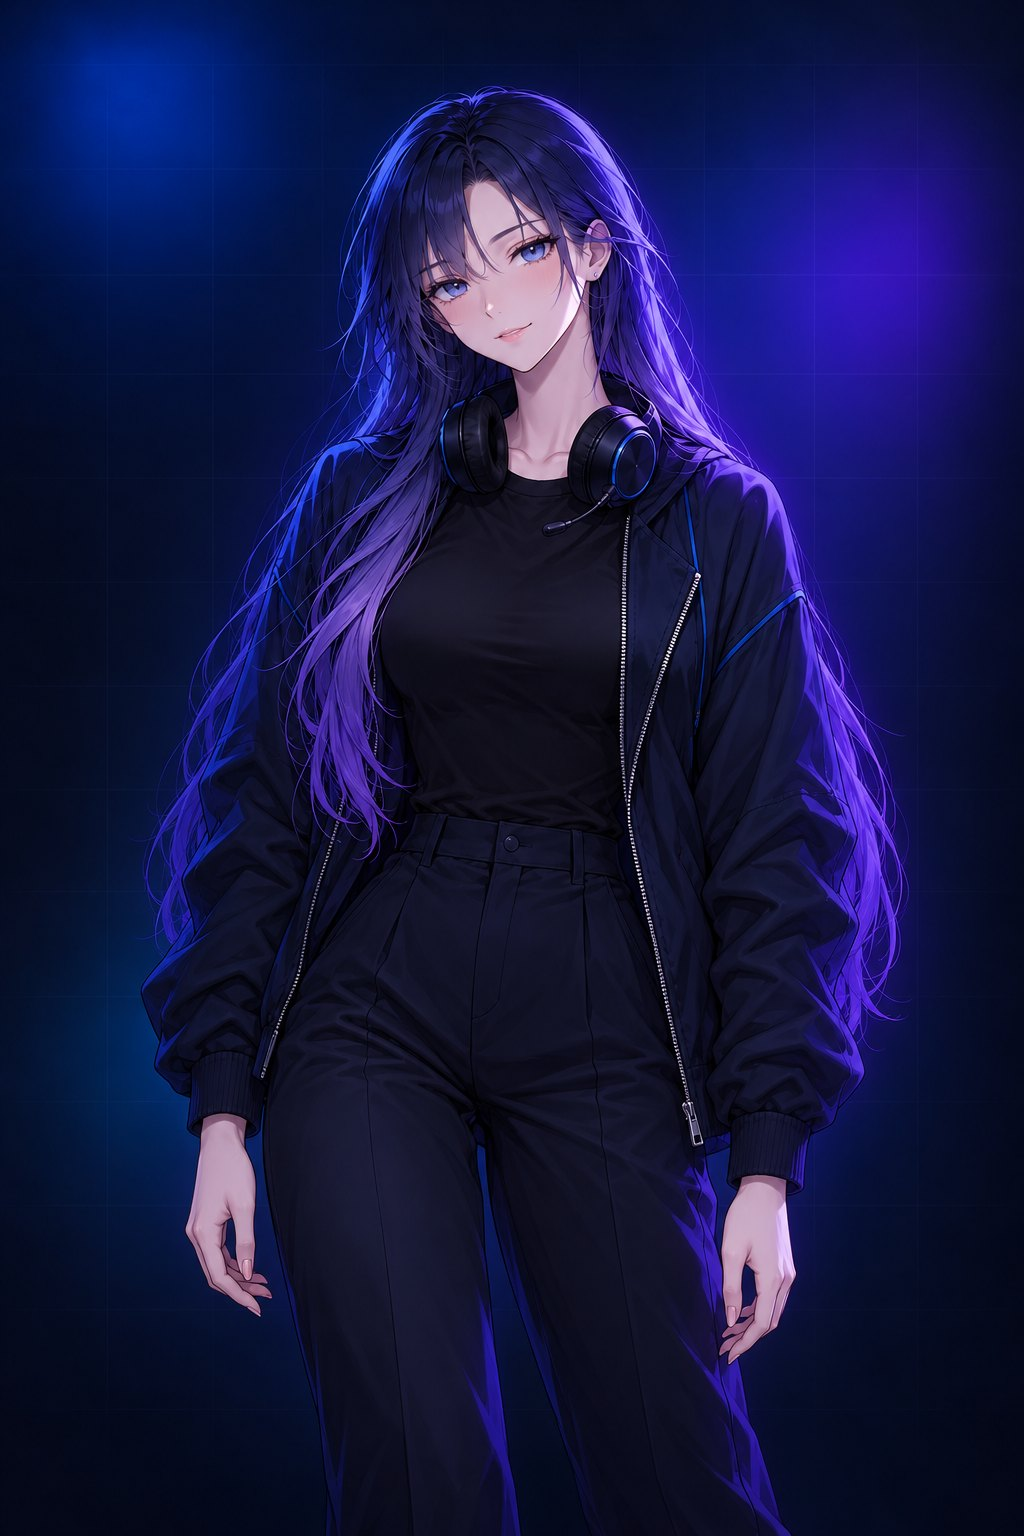
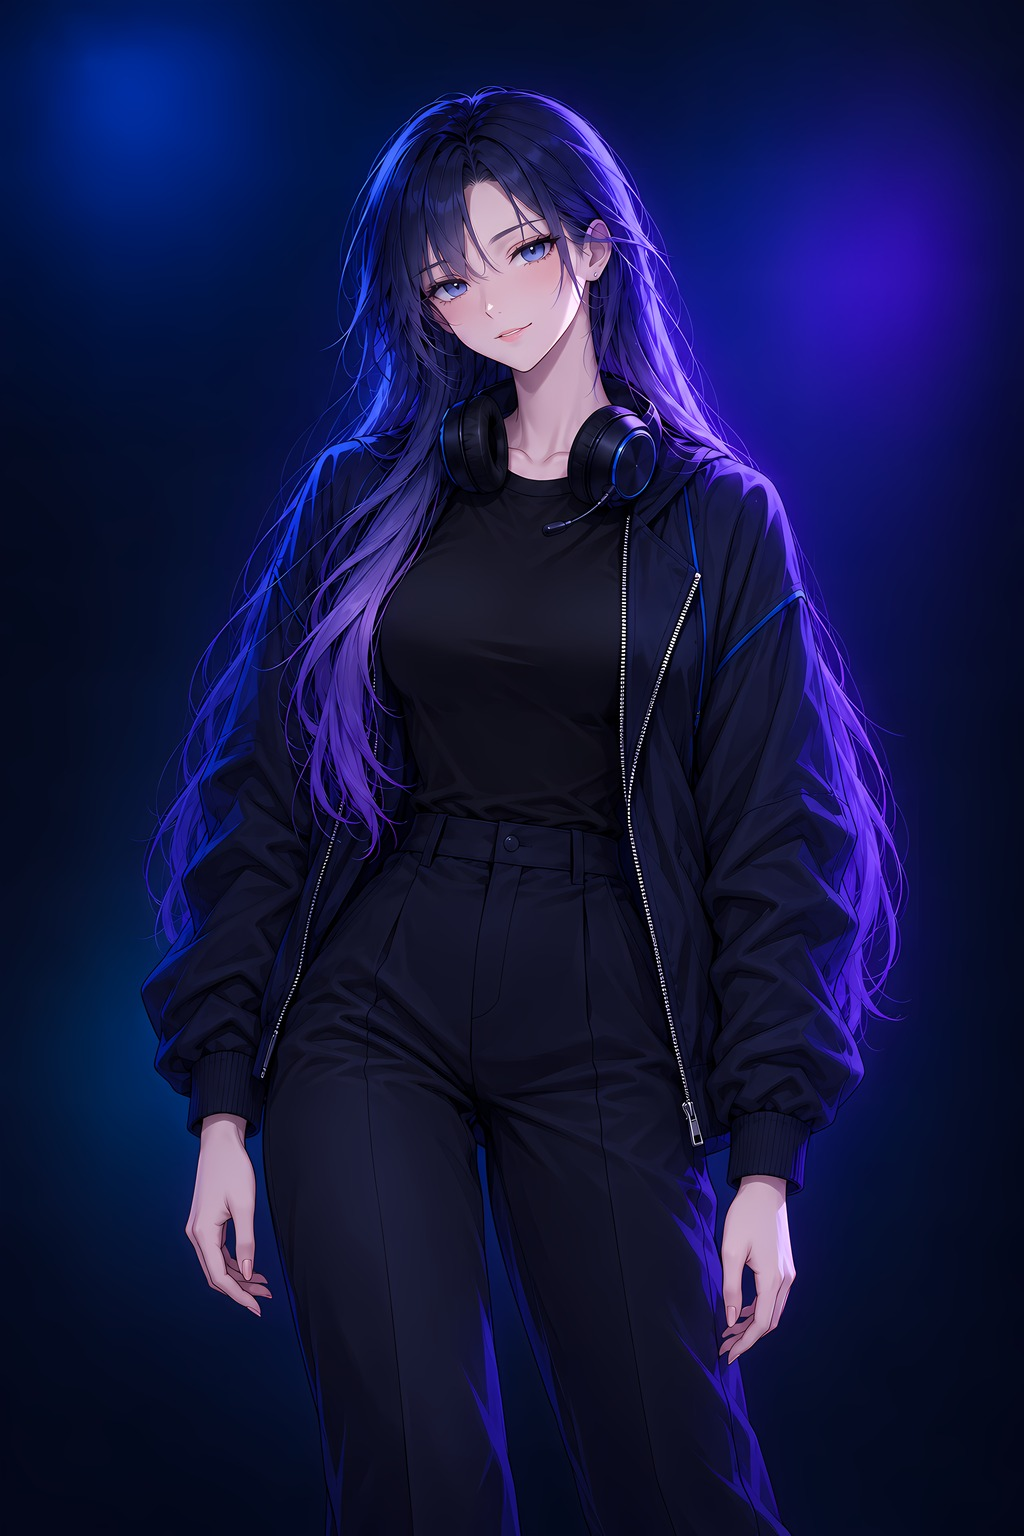
ヒーロー画像を Real-ESRGAN で高解像度化し、Retina 向けに 2 倍版を srcset で配信

diff --git a/index.html b/index.html
@@ -1,5 +1,5 @@
-<!doctype html><html lang="ja"><head><meta charset="utf-8"><meta name="viewport" content="width=device-width, initial-scale=1"><meta name="robots" content="noindex,nofollow"><title>ETHICA VTuber Studio｜所属しなくても使える、VTuberの支援会社</title><meta name="description" content="ETHICA VTuber Studio は、所属契約なしで使えるVTuberの支援会社です。案件の交渉、動画や配信画面の制作、税金や契約の相談など、配信以外の仕事を引き受けます。相談は無料です。"><meta name="theme-color" content="#080e20"><link rel="icon" href="assets/favicon.svg" type="image/svg+xml"><link rel="preconnect" href="https://fonts.googleapis.com"><link rel="preconnect" href="https://fonts.gstatic.com" crossorigin><link href="https://fonts.googleapis.com/css2?family=Montserrat:wght@400;500;600;700&family=Noto+Sans+JP:wght@400;500;600;700&family=Shippori+Mincho:wght@400;500&display=swap" rel="stylesheet"><link rel="stylesheet" href="assets/style.css"><script src="assets/main.js" defer></script></head><body class="home"><a class="skip-link" href="#main">本文へ移動</a><header class="site-header"><a class="brand" href="index.html" aria-label="ETHICA VTuber Studio トップ"><span class="wordmark">ETHICA<span>VTUBER STUDIO</span></span></a><button class="menu-toggle" type="button" aria-expanded="false" aria-controls="main-nav" aria-label="メニューを開く"><span></span><span></span></button><nav id="main-nav" class="main-nav" aria-label="メインナビゲーション"><a href="index.html#service">Service</a><a href="index.html#message">Message</a><a href="index.html#company">Company</a><a href="index.html#access">Access</a><a class="nav-contact" href="index.html#contact">ご相談はこちら <span aria-hidden="true">↗</span></a></nav></header><main id="main"><section class="hero" aria-labelledby="hero-title"><picture class="hero-picture"><source media="(max-width: 760px)" type="image/webp" srcset="assets/img/hero_portrait.webp"><source media="(max-width: 760px)" srcset="assets/img/hero_portrait.jpg"><source type="image/webp" srcset="assets/img/hero_wide.webp"><img class="hero-image" src="assets/img/hero_wide.jpg" alt="青と紫の光に包まれた、ヘッドセットを首にかけたオリジナル VTuber キャラクター" width="1536" height="864" fetchpriority="high"></picture><div class="hero-shade"></div><div class="container hero-content"><p class="hero-label">ETHICA VTUBER STUDIO</p><h1 id="hero-title" class="serif"><span>VTuberの活動を、</span><span>裏方として<br class="sp">支えます。</span></h1><p class="hero-sub">所属契約なしで使える、VTuberの支援会社です。</p><p class="hero-detail">案件の交渉、動画や配信画面の制作、<br class="sp">税金や契約の相談など、<br>配信以外の仕事を代わりに引き受けます。<br class="sp">必要なものだけ選んで依頼できます。</p><a href="#service" class="button button-glass">私たちの事業を見る <span aria-hidden="true">↗</span></a></div><div class="hero-bottom container"><a href="#service" class="scroll-cue">SCROLL<span></span></a><p>相談は無料です。<br>契約を前提にしていません。</p></div></section>
-<section id="service" class="section service-section"><div class="container"><div class="section-intro reveal"><div class="section-heading"><p class="eyebrow">事業内容</p><h2>Service</h2></div><div><h3>配信以外の仕事を、<br class="sp">まとめて引き受けます。</h3><p>配信者の方には、活動の裏方を引き受けます。<br>企業の方には、VTuber企画の窓口になります。</p><p>事業は次の4つです。</p></div></div><div class="business-grid"><article class="business-card reveal"><div class="art art-entertainment photo-art" aria-hidden="true"><img src="assets/img/hero_wide.jpg" alt="" loading="lazy" width="1536" height="864"><span class="art-word">所属契約は<br>いりません。</span><span class="art-caption">ENTERTAINMENT / ETHICA</span></div><div class="card-copy"><p class="card-kicker"><span>01</span>ENTERTAINMENT</p><h3>エンターテインメント事業</h3><p>活動のサポート、イベント、自社番組の企画をおこないます。</p><ul class="tags"><li>活動サポート</li><li>イベント</li><li>自社 IP 番組</li></ul><a class="text-link" href="entertainment.html">事業の詳細を見る <span aria-hidden="true">↗</span></a></div></article><article class="business-card reveal"><div class="art art-marketing" aria-hidden="true"><div class="art-orbit"></div><svg viewBox="0 0 320 288" fill="none" stroke="currentColor" stroke-width="1.4" stroke-linecap="round" stroke-linejoin="round" aria-hidden="true"><circle cx="160" cy="144" r="125" stroke-opacity=".15"/><circle cx="103" cy="148" r="49"/><circle cx="217" cy="148" r="49"/><path d="M133 148h54m-16-16 16 16-16 16M118 74a91 91 0 0 1 84 0M118 222a91 91 0 0 0 84 0"/></svg><span class="art-caption">MARKETING / ETHICA</span></div><div class="card-copy"><p class="card-kicker"><span>02</span>MARKETING</p><h3>マーケティング事業</h3><p>企業とVTuberのタイアップ企画を、窓口として進めます。</p><ul class="tags"><li>タイアップ</li><li>SNS</li><li>グッズ・D2C</li></ul><a class="text-link" href="marketing.html">事業の詳細を見る <span aria-hidden="true">↗</span></a></div></article><article class="business-card reveal"><div class="art art-creative" aria-hidden="true"><div class="art-orbit"></div><svg viewBox="0 0 320 288" fill="none" stroke="currentColor" stroke-width="1.4" stroke-linecap="round" stroke-linejoin="round" aria-hidden="true"><circle cx="160" cy="144" r="125" stroke-opacity=".15"/><path d="m95 206 19-65L218 37l46 46-104 104-65 19zm19-65 46 46m-60 4 10 10M197 58l46 46M75 239h176"/><circle cx="76" cy="76" r="8"/><path d="M65 115H45m10-10v20"/></svg><span class="art-caption">CREATIVE / ETHICA</span></div><div class="card-copy"><p class="card-kicker"><span>03</span>CREATIVE</p><h3>クリエイティブ事業</h3><p>キャラクター、配信画面、動画などの制作を引き受けます。</p><ul class="tags"><li>キャラクター</li><li>映像</li><li>デザイン</li></ul><a class="text-link" href="creative.html">事業の詳細を見る <span aria-hidden="true">↗</span></a></div></article><article class="business-card reveal"><div class="art art-support" aria-hidden="true"><div class="art-orbit"></div><svg viewBox="0 0 320 288" fill="none" stroke="currentColor" stroke-width="1.4" stroke-linecap="round" stroke-linejoin="round" aria-hidden="true"><circle cx="160" cy="144" r="125" stroke-opacity=".15"/><path d="M103 55h88l35 35v145H103zM191 55v35h35M125 119h78m-78 27h78m-78 27h48m1 33 15 15 36-36"/></svg><span class="art-caption">CREATOR SUPPORT / ETHICA</span></div><div class="card-copy"><p class="card-kicker"><span>04</span>CREATOR SUPPORT</p><h3>クリエイターサポート事業</h3><p>税金や契約など、配信以外で困ることを相談できます。</p><ul class="tags"><li>税務・法務</li><li>資金計画</li><li>条件の開示</li></ul><a class="text-link" href="support.html">事業の詳細を見る <span aria-hidden="true">↗</span></a></div></article></div><div class="service-promise reveal"><span>所属不要・非専属</span><p>契約は項目ごとです。<br class="sp">あとから増やすことも、やめることもできます。</p><a href="support.html#terms">料金・条件について <span aria-hidden="true">↗</span></a></div></div></section>
+<!doctype html><html lang="ja"><head><meta charset="utf-8"><meta name="viewport" content="width=device-width, initial-scale=1"><meta name="robots" content="noindex,nofollow"><title>ETHICA VTuber Studio｜所属しなくても使える、VTuberの支援会社</title><meta name="description" content="ETHICA VTuber Studio は、所属契約なしで使えるVTuberの支援会社です。案件の交渉、動画や配信画面の制作、税金や契約の相談など、配信以外の仕事を引き受けます。相談は無料です。"><meta name="theme-color" content="#080e20"><link rel="icon" href="assets/favicon.svg" type="image/svg+xml"><link rel="preconnect" href="https://fonts.googleapis.com"><link rel="preconnect" href="https://fonts.gstatic.com" crossorigin><link href="https://fonts.googleapis.com/css2?family=Montserrat:wght@400;500;600;700&family=Noto+Sans+JP:wght@400;500;600;700&family=Shippori+Mincho:wght@400;500&display=swap" rel="stylesheet"><link rel="stylesheet" href="assets/style.css"><script src="assets/main.js" defer></script></head><body class="home"><a class="skip-link" href="#main">本文へ移動</a><header class="site-header"><a class="brand" href="index.html" aria-label="ETHICA VTuber Studio トップ"><span class="wordmark">ETHICA<span>VTUBER STUDIO</span></span></a><button class="menu-toggle" type="button" aria-expanded="false" aria-controls="main-nav" aria-label="メニューを開く"><span></span><span></span></button><nav id="main-nav" class="main-nav" aria-label="メインナビゲーション"><a href="index.html#service">Service</a><a href="index.html#message">Message</a><a href="index.html#company">Company</a><a href="index.html#access">Access</a><a class="nav-contact" href="index.html#contact">ご相談はこちら <span aria-hidden="true">↗</span></a></nav></header><main id="main"><section class="hero" aria-labelledby="hero-title"><picture class="hero-picture"><source media="(max-width: 760px)" type="image/webp" srcset="assets/img/hero_portrait.webp 1x, assets/img/hero_portrait@2x.webp 2x"><source media="(max-width: 760px)" srcset="assets/img/hero_portrait.jpg 1x, assets/img/hero_portrait@2x.jpg 2x"><source type="image/webp" srcset="assets/img/hero_wide.webp 1x, assets/img/hero_wide@2x.webp 2x"><img class="hero-image" src="assets/img/hero_wide.jpg" srcset="assets/img/hero_wide.jpg 1x, assets/img/hero_wide@2x.jpg 2x" alt="青と紫の光に包まれた、ヘッドセットを首にかけたオリジナル VTuber キャラクター" width="1536" height="864" fetchpriority="high"></picture><div class="hero-shade"></div><div class="container hero-content"><p class="hero-label">ETHICA VTUBER STUDIO</p><h1 id="hero-title" class="serif"><span>VTuberの活動を、</span><span>裏方として<br class="sp">支えます。</span></h1><p class="hero-sub">所属契約なしで使える、VTuberの支援会社です。</p><p class="hero-detail">案件の交渉、動画や配信画面の制作、<br class="sp">税金や契約の相談など、<br>配信以外の仕事を代わりに引き受けます。<br class="sp">必要なものだけ選んで依頼できます。</p><a href="#service" class="button button-glass">私たちの事業を見る <span aria-hidden="true">↗</span></a></div><div class="hero-bottom container"><a href="#service" class="scroll-cue">SCROLL<span></span></a><p>相談は無料です。<br>契約を前提にしていません。</p></div></section>
+<section id="service" class="section service-section"><div class="container"><div class="section-intro reveal"><div class="section-heading"><p class="eyebrow">事業内容</p><h2>Service</h2></div><div><h3>配信以外の仕事を、<br class="sp">まとめて引き受けます。</h3><p>配信者の方には、活動の裏方を引き受けます。<br>企業の方には、VTuber企画の窓口になります。</p><p>事業は次の4つです。</p></div></div><div class="business-grid"><article class="business-card reveal"><div class="art art-entertainment photo-art" aria-hidden="true"><img src="assets/img/hero_wide.jpg" srcset="assets/img/hero_wide.webp 1x, assets/img/hero_wide@2x.webp 2x" alt="" loading="lazy" width="1536" height="864"><span class="art-word">所属契約は<br>いりません。</span><span class="art-caption">ENTERTAINMENT / ETHICA</span></div><div class="card-copy"><p class="card-kicker"><span>01</span>ENTERTAINMENT</p><h3>エンターテインメント事業</h3><p>活動のサポート、イベント、自社番組の企画をおこないます。</p><ul class="tags"><li>活動サポート</li><li>イベント</li><li>自社 IP 番組</li></ul><a class="text-link" href="entertainment.html">事業の詳細を見る <span aria-hidden="true">↗</span></a></div></article><article class="business-card reveal"><div class="art art-marketing" aria-hidden="true"><div class="art-orbit"></div><svg viewBox="0 0 320 288" fill="none" stroke="currentColor" stroke-width="1.4" stroke-linecap="round" stroke-linejoin="round" aria-hidden="true"><circle cx="160" cy="144" r="125" stroke-opacity=".15"/><circle cx="103" cy="148" r="49"/><circle cx="217" cy="148" r="49"/><path d="M133 148h54m-16-16 16 16-16 16M118 74a91 91 0 0 1 84 0M118 222a91 91 0 0 0 84 0"/></svg><span class="art-caption">MARKETING / ETHICA</span></div><div class="card-copy"><p class="card-kicker"><span>02</span>MARKETING</p><h3>マーケティング事業</h3><p>企業とVTuberのタイアップ企画を、窓口として進めます。</p><ul class="tags"><li>タイアップ</li><li>SNS</li><li>グッズ・D2C</li></ul><a class="text-link" href="marketing.html">事業の詳細を見る <span aria-hidden="true">↗</span></a></div></article><article class="business-card reveal"><div class="art art-creative" aria-hidden="true"><div class="art-orbit"></div><svg viewBox="0 0 320 288" fill="none" stroke="currentColor" stroke-width="1.4" stroke-linecap="round" stroke-linejoin="round" aria-hidden="true"><circle cx="160" cy="144" r="125" stroke-opacity=".15"/><path d="m95 206 19-65L218 37l46 46-104 104-65 19zm19-65 46 46m-60 4 10 10M197 58l46 46M75 239h176"/><circle cx="76" cy="76" r="8"/><path d="M65 115H45m10-10v20"/></svg><span class="art-caption">CREATIVE / ETHICA</span></div><div class="card-copy"><p class="card-kicker"><span>03</span>CREATIVE</p><h3>クリエイティブ事業</h3><p>キャラクター、配信画面、動画などの制作を引き受けます。</p><ul class="tags"><li>キャラクター</li><li>映像</li><li>デザイン</li></ul><a class="text-link" href="creative.html">事業の詳細を見る <span aria-hidden="true">↗</span></a></div></article><article class="business-card reveal"><div class="art art-support" aria-hidden="true"><div class="art-orbit"></div><svg viewBox="0 0 320 288" fill="none" stroke="currentColor" stroke-width="1.4" stroke-linecap="round" stroke-linejoin="round" aria-hidden="true"><circle cx="160" cy="144" r="125" stroke-opacity=".15"/><path d="M103 55h88l35 35v145H103zM191 55v35h35M125 119h78m-78 27h78m-78 27h48m1 33 15 15 36-36"/></svg><span class="art-caption">CREATOR SUPPORT / ETHICA</span></div><div class="card-copy"><p class="card-kicker"><span>04</span>CREATOR SUPPORT</p><h3>クリエイターサポート事業</h3><p>税金や契約など、配信以外で困ることを相談できます。</p><ul class="tags"><li>税務・法務</li><li>資金計画</li><li>条件の開示</li></ul><a class="text-link" href="support.html">事業の詳細を見る <span aria-hidden="true">↗</span></a></div></article></div><div class="service-promise reveal"><span>所属不要・非専属</span><p>契約は項目ごとです。<br class="sp">あとから増やすことも、やめることもできます。</p><a href="support.html#terms">料金・条件について <span aria-hidden="true">↗</span></a></div></div></section>
 <section id="message" class="section message"><div class="container"><div class="message-intro reveal"><div class="section-heading"><p class="eyebrow">私たちについて</p><h2>Message</h2></div><div><h3 class="serif">事務所に入るか、<br>ひとりでやるか。<br>その間の選択肢を<br>つくります。</h3><p>ETHICA VTuber Studio は、<br class="sp">タレントを所属させない支援会社です。</p><p>配信以外の仕事を引き受けて、<br class="sp">配信者が配信に集中できるようにします。</p><p>契約の条件は、先に書面でお渡しします。<br class="sp">契約が終わったあとの活動を縛ることもしません。</p></div></div><div class="values"><article class="reveal"><p class="value-label">Mission</p><h3>VTuberのやりたいことを、<br>実現しやすくする</h3><p>配信以外の仕事を引き受けて、<br class="sp">配信に集中できる環境をつくります。</p></article><article class="reveal"><p class="value-label">Vision</p><h3>所属しなくても<br>活動を続けられる業界にする</h3><p>事務所に入るか、ひとりで抱えるか。<br class="sp">その二択に、もうひとつの選択肢を加えます。</p></article><article class="reveal"><p class="value-label">Value</p><h3>条件は<br>契約の前にすべて出す</h3><p>費用、権利の扱い、やめるときの条件を、<br class="sp">契約前に書面でお渡しします。<br>持ち帰って検討してください。</p></article></div><a class="text-link light-link" href="support.html#terms">契約前に確認できる条件を見る <span aria-hidden="true">↗</span></a></div></section>
 <section id="company" class="section company"><div class="container split-section reveal"><div class="section-heading"><p class="eyebrow">会社概要</p><h2>Company</h2></div><dl class="data-list"><div><dt>会社名</dt><dd>株式会社Ethica</dd></div><div><dt>事業名</dt><dd>ETHICA VTuber Studio</dd></div><div><dt>設立</dt><dd>確定後に掲載します</dd></div><div><dt>代表者</dt><dd>確定後に掲載します</dd></div><div><dt>事業内容</dt><dd>VTuberの活動支援、イベントの企画運営、自社番組の制作<br>VTuberを起用したマーケティング支援、グッズの企画<br>キャラクター、映像、デザインの制作<br>税務、法務、契約に関するクリエイター支援</dd></div></dl></div></section>
 <section id="access" class="section access"><div class="container split-section reveal"><div class="section-heading"><p class="eyebrow">アクセス</p><h2>Access</h2></div><div class="access-content"><p class="eyebrow">オンライン対応</p><h3 class="serif">ご相談はオンラインで<br>受けています。</h3><p>ビデオ通話、X のDM、メールの<br class="sp">どれでも構いません。<br>初回は、配信の合間の30分程度でも大丈夫です。</p><p>全国どこからでもご相談いただけます。</p><p class="location-note">所在地は確定後に掲載します。</p><a class="text-link" href="index.html#contact">ご相談はこちら <span aria-hidden="true">↗</span></a></div></div></section><section id="contact" class="contact section"><div class="container contact-inner"><div class="section-heading"><p class="eyebrow">お問い合わせ</p><h2>Contact</h2></div><h3 class="serif">まずは現状を<br class="sp">聞かせてください。</h3><p class="contact-copy">配信者の方の活動相談、<br class="sp">企業・広告主の方の企画相談、<br class="sp">取材のご依頼を受け付けています。<br>ご相談は、ビデオ通話、X のDM、<br class="sp">メールで対応します。</p><p class="contact-promise">相談は無料です。<br class="sp">相談したからといって契約する必要はありません。</p><div class="contact-status"><span class="status-dot" aria-hidden="true"></span>相談窓口は準備中です</div><p class="contact-note">お問い合わせ先（メールアドレス・X アカウント）は<br class="sp">確定後に掲載します</p></div></section></main><footer class="site-footer"><div class="container"><div class="footer-top"><a class="brand" href="index.html" aria-label="ETHICA VTuber Studio トップ"><span class="wordmark">ETHICA<span>VTUBER STUDIO</span></span></a><nav aria-label="フッターナビゲーション"><a href="index.html">Top</a><a href="index.html#service">Service</a><a href="index.html#message">Message</a><a href="index.html#company">Company</a><a href="index.html#access">Access</a><a href="index.html#contact">Contact</a></nav></div><div class="footer-bottom"><small>© ETHICA VTuber Studio / 株式会社Ethica</small><a href="privacy.html">プライバシーポリシー <span aria-hidden="true">↗</span></a></div></div></footer></body></html>

diff --git a/README.md b/README.md
@@ -10,7 +10,7 @@
   - 03 CREATIVE（キャラクター制作／映像／デザイン／ブランディング・構成）
   - 04 CREATOR SUPPORT（税務／法務・契約／資金・機材の計画／条件の事前開示）← サムライの「ファイナンス事業」の VTuber 版
 - 支援項目・対象 A/B/C・料金条件の表は 2026-09-08 のデザイン提案（支援事務所版）と有識者ご意見用スライドに揃えている。文章は 2026-10-29 にオーナー指示で「AI っぽくない自然な日本語」に全面書き換え済み（キャッチ調・英語の飾り文句は使わない）
-- ヒーローのキャラクター画像は **GPT 画像生成（gpt-image-2）による仮ビジュアル**。原画 PNG と生成プロンプト、Midjourney 用プロンプトは `../site_assets_素材/`。Midjourney で作り直したら `assets/img/hero_wide.{jpg,webp}`（16:9）と `hero_portrait.{jpg,webp}`（2:3）を同名で上書きすれば HTML の変更は不要
+- ヒーローのキャラクター画像は **GPT 画像生成（gpt-image-2）による仮ビジュアル**。原画 PNG と生成プロンプト、Midjourney 用プロンプトは `../site_assets_素材/`。画像は Real-ESRGAN（アニメ用 6B・`../site_assets_素材/upscale.py`、ComfyUI の venv で実行）で 4 倍に拡大してから 2 倍解像度版（`@2x`）と等倍版を書き出し、`srcset` で Retina 画面に 2 倍版を配信している。Midjourney で作り直したら原画 PNG を `../site_assets_素材/` に置いて `upscale.py` を回し、`hero_wide{,@2x}.{jpg,webp}`（16:9）と `hero_portrait{,@2x}.{jpg,webp}`（2:3）を同名で上書きすれば HTML の変更は不要
 - Claude が先に組んだ第 1 版は `../site_design_サイトデザイン/2026-10-29_claude_v1/` に保管（黒田レビュー済み・不採用）
 
 ## ファイル構成
